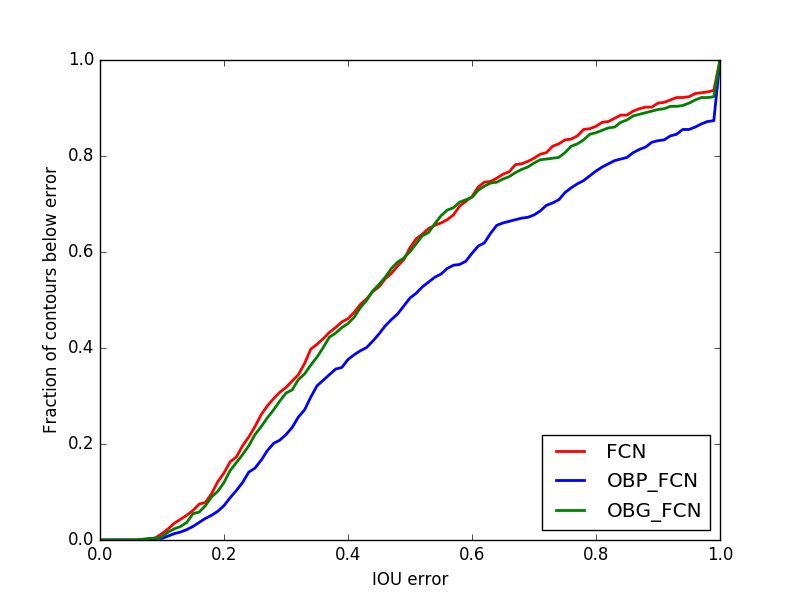
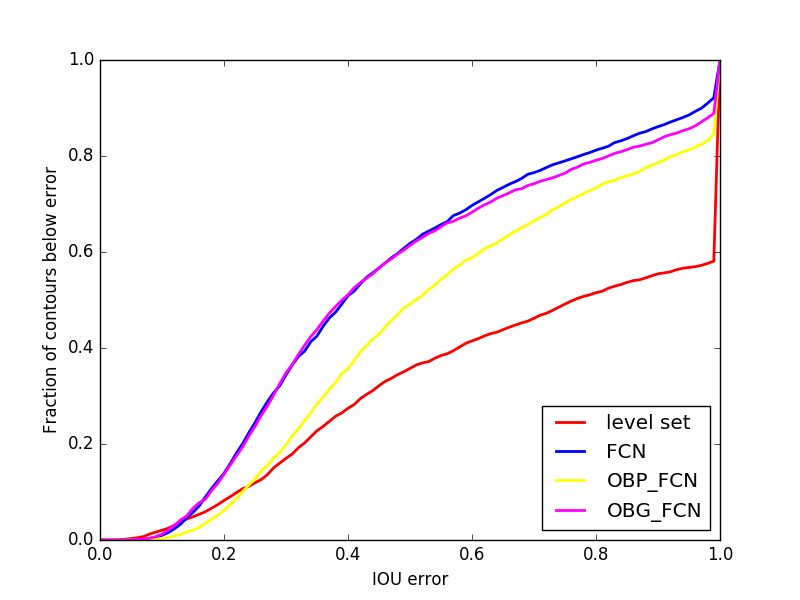
proper train test split

diff --git a/python/process_raw_data.py b/python/process_raw_data.py
@@ -5,18 +5,34 @@ import argparse
 from shapely.geometry import Polygon, Point
 import os
 from tqdm import tqdm
+import configparser
 
+#############################
+#Parse input arguments
+#############################
 parser = argparse.ArgumentParser()
 parser.add_argument('groupsDir')
-parser.add_argument('outputDir')
 parser.add_argument('--convert', action='store_true', default=False)
 parser.add_argument('--plot', action='store_true', default=False)
 args = parser.parse_args()
 groupsDir = args.groupsDir
-outputDir = args.outputDir
 plot = args.plot
 convert = args.convert
 
+#############################
+#Parse config params
+#############################
+config = configparser.ConfigParser()
+config.read('options.cfg')
+dirs = {}
+dirs['train'] = config['learn_params']['train_dir']
+dirs['val'] = config['learn_params']['val_dir']
+dirs['test'] = config['learn_params']['test_dir']
+split = float(config['learn_params']['split'])
+
+################################
+# Create variables to store data
+################################
 files = os.listdir(groupsDir)
 images = []
 segmentations = []
@@ -27,6 +43,26 @@ names = open(groupsDir+'../names.txt','w')
 
 eccentricity_limit = 0.2
 
+#################################
+# Make model train/val/test split
+#################################
+models = [f.split('.')[0] for f in files if 'OSMSC' in f]
+models = list(set(models))
+inds = np.random.permutation(len(models))
+cut = int(round(split*len(models)))
+
+split_models = {}
+split_models['test'] = [models[i] for i in inds[:cut]]
+split_models['val'] = [models[i] for i in inds[cut:2*cut]]
+split_models['train'] = [models[i] for i in inds[2*cut:]]
+
+split_inds = {}
+split_inds['train'] = []
+split_inds['val'] = []
+split_inds['test'] = []
+
+count = 0
+files = [f for f in files if 'truth.ls' in f]
 if convert:
     for f in tqdm(files):
         if "truth.ls" in f:
@@ -62,23 +98,46 @@ if convert:
             meta_data[1].append(origin)
             meta_data[2].append(dims)
             names.write(f+'\n')
+            #convert file to just file name
+            file_model = f.split('.')[0]
+            for k in split_models.keys():
+                if any(file_model in s for s in split_models[k]):
+                    split_inds[k].append(count)
+            count+=1
+
     segmentations = np.asarray(segmentations)
     images = np.asarray(images)
     meta_data = np.asarray(meta_data)
 
-    np.save(outputDir+'segmentations', segmentations)
-    np.save(outputDir+'images', images)
-    np.save(outputDir+'metadata', meta_data)
-    np.save(outputDir+'contours', contours)
-    np.save(outputDir+'ls_image', contours_ls)
+    for k in dirs.keys():
+        np.save(dirs[k]+'segmentations', segmentations[split_inds[k]])
+        np.save(dirs[k]+'images', images[split_inds[k]])
+        np.save(dirs[k]+'metadata', meta_data[:,split_inds[k],:])
+        np.save(dirs[k]+'contours', [contours[i] for i in split_inds[k]])
+        np.save(dirs[k]+'ls_image', [contours_ls[i] for i in split_inds[k]])
     names.close()
 
-else:
-    images = np.load(outputDir+'images.npy')
-    segmentations = np.load(outputDir+'segmentations.npy')
-    meta_data = np.load(outputDir+'metadata.npy')
-    contours = np.load(outputDir+'contours.npy')
-    contours_ls = np.load(outputDir+'ls_image.npy')
+    f = open('./data/train.txt','w')
+    for m in split_models['train']:
+        f.write(m+'\n')
+    f.close()
+
+    f = open('./data/val.txt','w')
+    for m in split_models['val']:
+        f.write(m+'\n')
+    f.close()
+
+    f = open('./data/test.txt','w')
+    for m in split_models['test']:
+        f.write(m+'\n')
+    f.close()
+#
+# else:
+#     images = np.load(outputDir+'images.npy')
+#     segmentations = np.load(outputDir+'segmentations.npy')
+#     meta_data = np.load(outputDir+'metadata.npy')
+#     contours = np.load(outputDir+'contours.npy')
+#     contours_ls = np.load(outputDir+'ls_image.npy')
 
 if plot:
     for i in range(0,1):

diff --git a/python/evaluate_all.py b/python/evaluate_all.py
@@ -16,6 +16,7 @@ import utility.util_data as util_data
 import matplotlib.pyplot as plt
 import matplotlib.patches as mpatches
 from sklearn.metrics import roc_curve
+import configparser
 
 np.random.seed(0)
 THRESHOLD = 0.4
@@ -59,11 +60,10 @@ def contour_plot(x_test, C, extent, labels, colors, filename):
 ##########################
 # Parse args
 ##########################
-parser = argparse.ArgumentParser()
-parser.add_argument('dataDir')
-args = parser.parse_args()
+config = configparser.ConfigParser()
+config.read('options.cfg')
 
-dataDir = args.dataDir
+dataDir = config['learn_params']['test_dir']
 
 ###########################
 # Load data and preprocess
@@ -75,18 +75,13 @@ N, Pw, Ph, C = vasc2d.images_tf.shape
 print "Images stats\n N={}, Width={}, Height={}".format(
     N,Pw,Ph)
 
-images_norm = vasc2d.images_norm
-segs = vasc2d.segs_tf
-
-#train test split
-X_train, Y_train, X_test, Y_test, inds, train_inds, test_inds = \
-    utility.train_test_split(images_norm, segs,0.75)
-
+X_test = vasc2d.images_norm
+Y_test = vasc2d.segs_tf
 Ntest = X_test.shape[0]
 
-meta_test = vasc2d.meta[:,test_inds,:]
-contours_test = vasc2d.contours[test_inds]
-ls_test = vasc2d.contours_ls[test_inds]
+meta_test = vasc2d.meta
+contours_test = vasc2d.contours
+
 
 extents_test = utility.get_extents(meta_test)
 ROC = {}
@@ -126,7 +121,12 @@ OBP_full_errs = utility.listAreaOverlapError(OBP_full_contour, contours_test)
 OBP_full_thresh,ts = utility.cum_error_dist(OBP_full_errs,DX)
 ROC['OBG_FCN'] = roc_curve(np.ravel(Y_test), np.ravel(OBP_full_seg),pos_label=1)
 
-
+#############################
+# Level set
+#############################
+ls_test = vasc2d.contours_ls
+ls_errs = utility.listAreaOverlapError(ls_test, contours_test)
+ls_thresh,ts = utility.cum_error_dist(ls_errs,DX)
 #############################
 # Visualize results
 #############################
@@ -160,9 +160,10 @@ contour_plot(X_test[0],contours_to_plot,extents_test[0],labels,colors,'./plots/c
 
 #Figure 3, IOU
 plt.figure()
-plt.plot(ts,FCN_thresh, color='red', label='FCN', linewidth=2)
-plt.plot(ts,OBP_FCN_thresh, color='blue', label='OBP_FCN', linewidth=2)
-plt.plot(ts,OBP_full_thresh, color='green', label='OBG_FCN', linewidth=2)
+plt.plot(ts,ls_thresh, color='red', label='level set', linewidth=2)
+plt.plot(ts,FCN_thresh, color='blue', label='FCN', linewidth=2)
+plt.plot(ts,OBP_FCN_thresh, color='yellow', label='OBP_FCN', linewidth=2)
+plt.plot(ts,OBP_full_thresh, color='magenta', label='OBG_FCN', linewidth=2)
 plt.xlabel('IOU error')
 plt.ylabel('Fraction of contours below error')
 plt.legend(loc='lower right')
